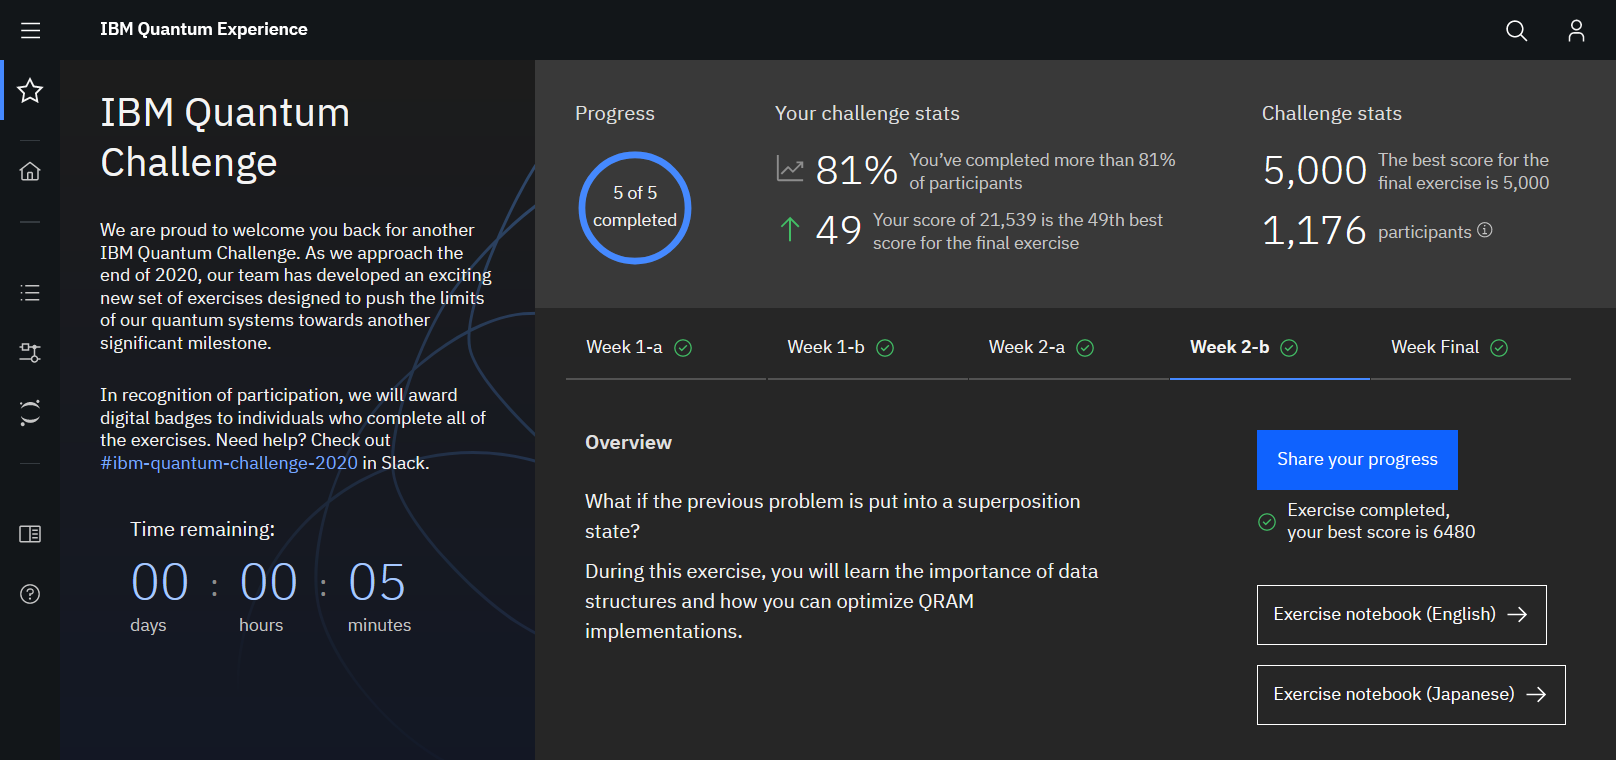
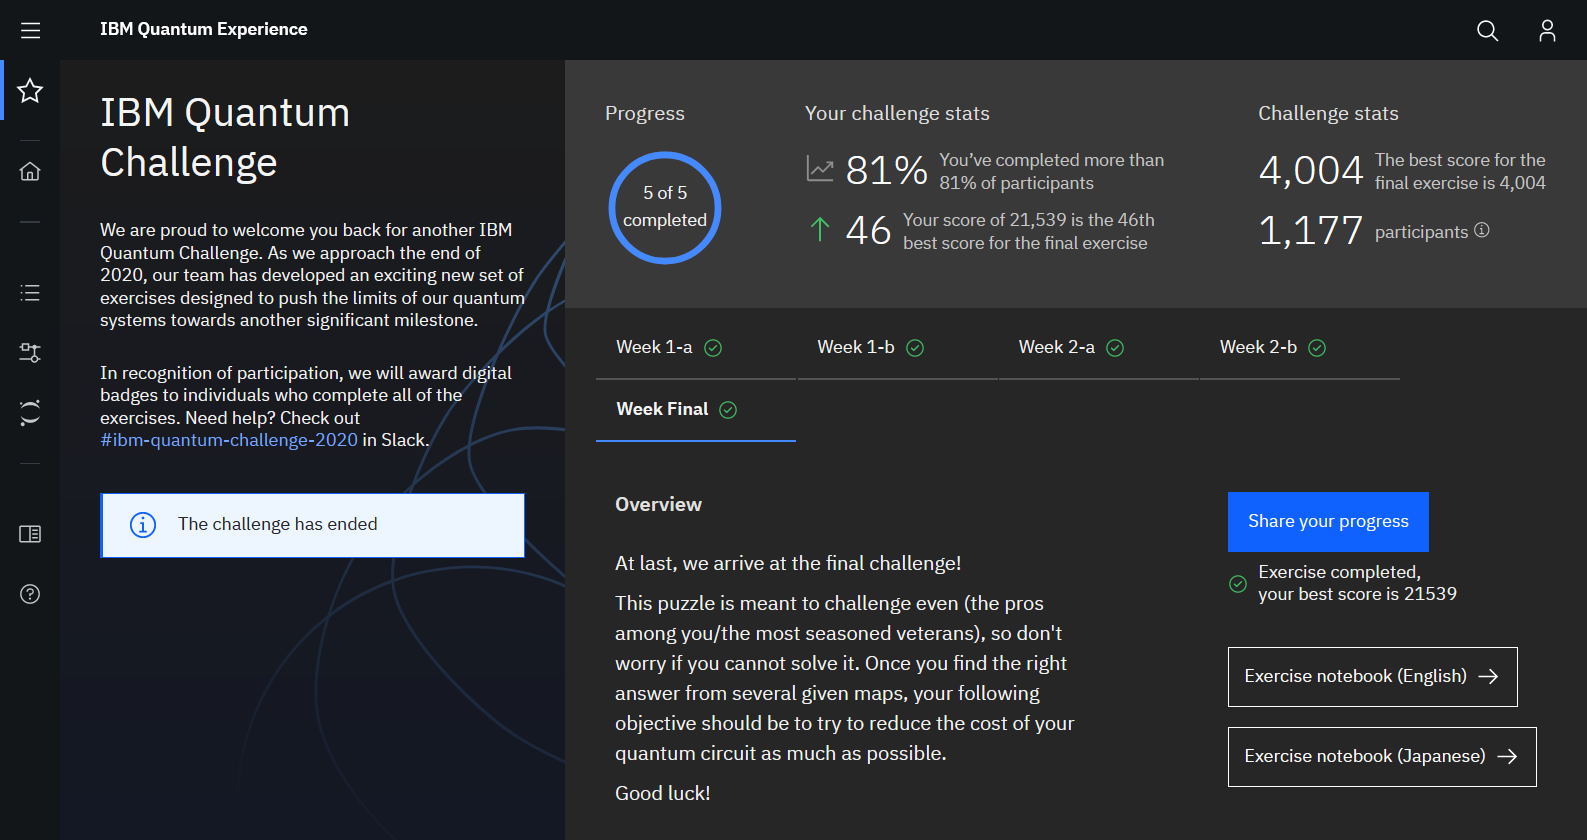
added badge

diff --git a/README.md b/README.md
@@ -3,15 +3,16 @@
 These are the solutions I submitted for the [IBM Quantum Challenge - Fall 2020](https://quantum-computing.ibm.com/challenges)    
 The original repo with all the materials and official solutions can be found [here](https://github.com/qiskit-community/IBMQuantumChallenge2020)  
 
-## Summer School Details  
+## Challenge Details  
 __Site:__ [IBM Quantum Experience](https://quantum-computing.ibm.com/challenges)  
 __Date:__ November 2020  
 
 ## Certificate  
-Badges are expected to be issued in Jan 2021.  
+Here's a screenshot of the challenge protal with my (tentative?) ranking for the final challenge.  
+<img src="./challenge_portal.png" alt="IBMQ Challenge Portal Screenshot" height="400px">  
 
-<img src="./challenge_portal.png" alt="IBMQ Challenge Portal Screenshot" height="300px">  
-For now, here's a screenshot with my tentative ranking for the final challenge.  
+And here's my advanced badge, for completing all the exercises.  
+[<img src="./ibm-quantum-challenge-fall-2020-advanced.png" alt="IBM Quantum Challenge - Fall 2020 - Advanced Badge" height="150px">](https://www.youracclaim.com/badges/f6f9a29e-0c4c-4303-b47f-90f63e8c74b2/public_url)  
 
 ## Description  
 The solutions are coded in `exXX_en.ipynb` in the `exercises` folder. Each also has html copies for easier reference.  
